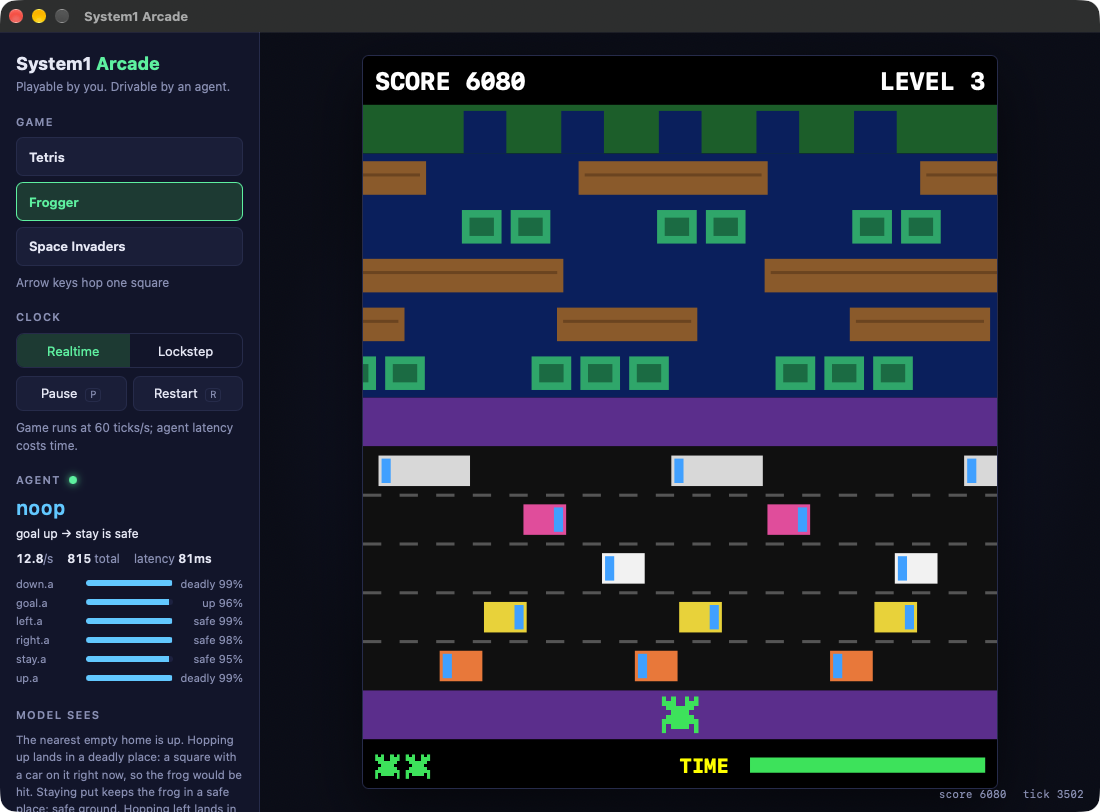
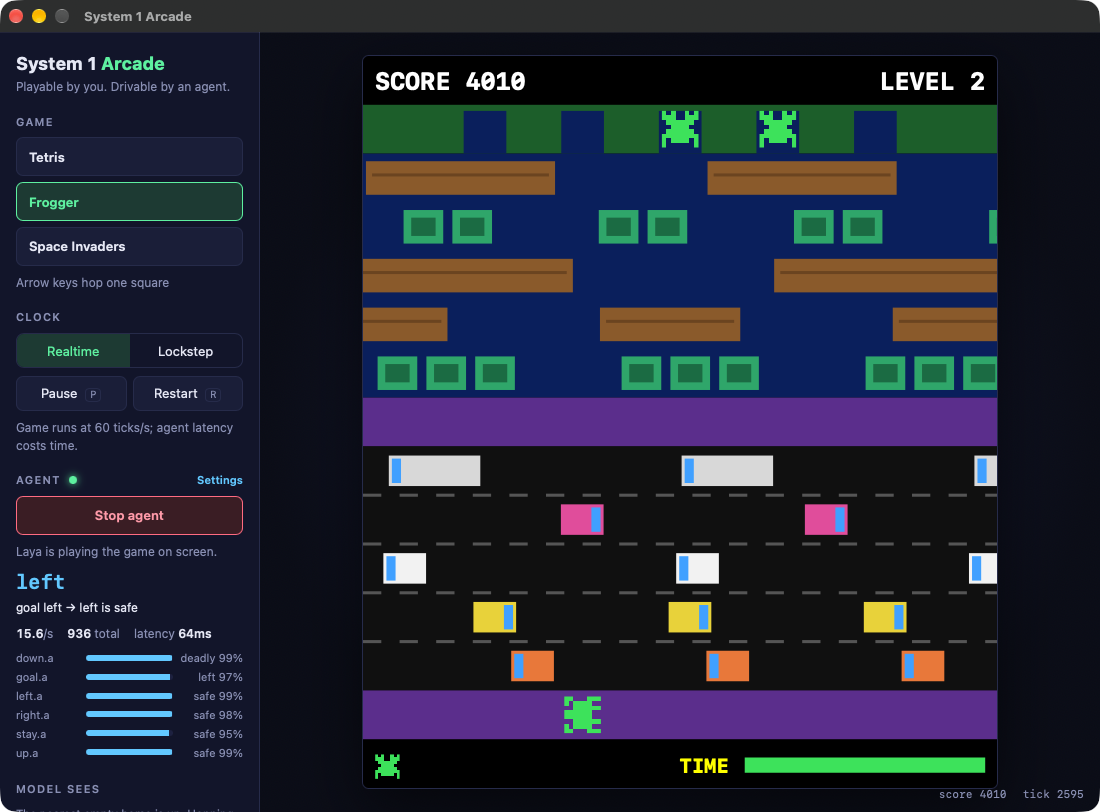
Add cross-platform build scripts and recapture game screenshots
- scripts/build.sh (macOS, Linux, Git Bash) and scripts/build.ps1
  (Windows) check prerequisites, install the Wails CLI pinned in go.mod
  if needed, optionally set up .venv with Laya, and build for the
  current platform
- Recapture the Tetris, Frogger and Space Invaders screenshots under the
  System 1 Arcade name and update the README captions and quick start
- Keep the pause state when a game is reset, so switching games on the
  start screen no longer starts play behind the overlay

diff --git a/internal/engine/engine.go b/internal/engine/engine.go
@@ -152,8 +152,7 @@ func (e *Engine) resetLocked(seed int64) {
 	}
 	e.seed = seed
 	e.g.Reset(seed)
-	e.tick = 0
-	e.paused = false
+	e.tick = 0 // pause state is kept: a reset on the start screen must not start play
 	clear(e.agentHold)
 	clear(e.agentPress)
 	clear(e.prevHeld)

diff --git a/README.md b/README.md
@@ -10,22 +10,31 @@ Built with Go and [Wails](https://wails.io), so it runs on macOS, Windows and Li
 
 | Tetris | Frogger | Space Invaders |
 |---|---|---|
-| ![Laya playing Tetris: 82 lines, level 8](docs/images/tetris.png) | ![Laya playing Frogger on level 3](docs/images/frogger.png) | ![Laya clearing wave 1 of Space Invaders](docs/images/invaders.png) |
-| Lockstep: 442 lines, level 44 | Realtime: cleared levels 1 and 2 without losing a life | Realtime: cleared wave 1 |
+| ![Laya playing Tetris in lockstep: 83 lines, level 8](docs/images/tetris.png) | ![Laya playing Frogger on level 2, lining up with an open home](docs/images/frogger.png) | ![Laya playing Space Invaders: 18 invaders left on wave 1](docs/images/invaders.png) |
+| Lockstep, 83 lines in. Best run: 442 lines, level 44 | Realtime, level 2. Best run: 13 homes, reaching level 3 | Realtime, 18 invaders left. Best run: cleared wave 1 |
 
 In each screenshot, Laya is the player. The side panel shows its latest decision, its answer to each
 question, and the plain-English description it was given ("Model sees").
 
 ## Quick start
 
-You need Go, Node.js, the Wails CLI and, for the built-in agent, Python 3.
+You need Go and Node.js; for the built-in agent, also Python 3. On Linux you need the GTK 3 and
+WebKitGTK development packages (e.g. `libgtk-3-dev libwebkit2gtk-4.1-dev`).
 
 ```sh
-go install github.com/wailsapp/wails/v2/cmd/wails@latest
-python3 -m venv .venv && .venv/bin/pip install laya   # built-in agent; downloads the model on first use
-wails build                                          # → build/bin/System 1 Arcade.app
-open "build/bin/System 1 Arcade.app"                 # or: wails dev
+scripts/build.sh --agent        # macOS or Linux (--agent also sets up .venv with Laya)
+open "build/bin/System 1 Arcade.app"
 ```
+
+```powershell
+powershell -ExecutionPolicy Bypass -File scripts\build.ps1 -Agent   # Windows
+build\bin\System1.exe
+```
+
+The build scripts install the Wails CLI version pinned in `go.mod` if it's missing, check the
+platform's prerequisites, and build for the current platform. Options: `--clean`, `--debug`,
+`--test` (`-Clean`, `-DebugBuild`, `-Test` on Windows). The Laya model downloads the first time the
+agent runs. For live reloading while developing, use `wails dev`.
 
 The app opens paused on a start screen. Pick a game, choose who plays (**You** or **Agent**) and
 press **Start**. With the agent selected, the game stays paused until the agent's first answer,
@@ -186,6 +195,7 @@ terminal:
 | `app.go`, `agent.go`, `main.go`, `frontend/` | the Wails desktop app: canvas renderer, start screen, settings, agent panel |
 | `cmd/headless` | the engine and API without a window |
 | `agents/` | built-in Laya server, terminal agent, custom agent example, batching helper, accuracy tool |
+| `scripts/` | `build.sh` and `build.ps1` for the current platform; `screenshot.sh` for window captures |
 
 To add a game, implement `game.Game` (and `game.Advisor` for agents) and register it in
 `internal/games/registry.go`.
@@ -203,4 +213,4 @@ go test ./internal/...   # includes an oracle-ceiling test for every game
 - Space Invaders loses lives that perfect answers avoid; the oracle reaches waves 7–10.
 - The built-in agent runs from the project folder and its `.venv`, so a copied `.app` needs a custom
   agent or `SYSTEM1_ROOT`.
-- Windows and Linux builds haven't been tested yet.
+- The build scripts are tested on macOS; the Linux and Windows paths haven't been run yet.
